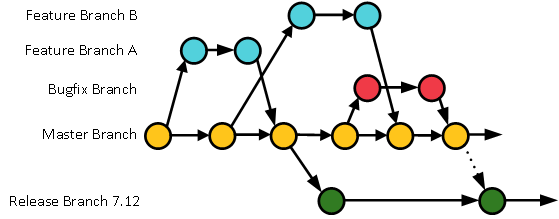
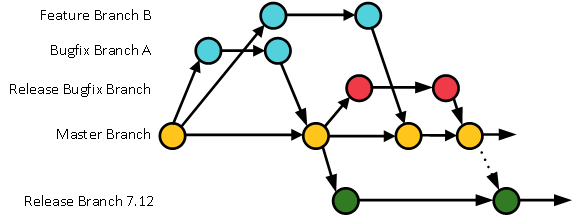
(boinc-flow) Document that bugfixes that are intended for a release branch should be branched from the commit the release branch forked from.

diff --git a/Development_Documents/BOINC_Flow.md b/Development_Documents/BOINC_Flow.md
@@ -4,22 +4,17 @@ There are many successful approaches to branching with git.  The BOINC community
 ## Master Branch
 The master branch is the primary branch in the project.  Committers will never commit to the master branch directly.  Any code merged into master is expected to go through peer review, be unit tested and have had existing automation tests run successfully against the new code before it is merged.  As a result, the master branch is expected to be reliable and is what developers should usually branch from when creating other branches.  
 
-## Feature Branches
-Developers create feature branches when they want to modify the code base.  If they are a committer, then they can use the [shared repository model](https://gist.github.com/seshness/3943237) and create the feature branch within the BOINC project directly.  If they are not a committer then they should follow the [fork and pull approach](https://gist.github.com/Chaser324/ce0505fbed06b947d962) to create a branch and submit a pull request.
+## Feature and Bugfix Branches
+Developers create feature or bugfix branches when they want to modify the code base.  If they are a committer, then they can use the [shared repository model](https://gist.github.com/seshness/3943237) and create the branch within the BOINC project directly.  If they are not a committer then they should follow the [fork and pull approach](https://gist.github.com/Chaser324/ce0505fbed06b947d962) to create a branch and submit a pull request.
 
-Features branches are merged into master via a pull request.  Developers should understand what is expected before submitting a pull request by reviewing the [Development Workflow](Development_Workflow.md) document.  
+Features and bugfix branches are merged into master via a pull request.  Developers should understand what is expected before submitting a pull request by reviewing the [Development Workflow](Development_Workflow.md) document.  
 
-Once a feature branch has been merged into master it should be deleted.
+Once a feature or bugfix branch has been merged into master it should be deleted.
 
-<p align="center">
-<img src="images/FeatureBranch.png" alt="Diagram of a Feature Branch"/>
-</p>
-
-## Bugfix Branch
-Bugfix branches are basically the same as feature branches except that created to fix a bug rather than implement a new feature.  This difference is mostly important when we talk about release branches later on in this document.
+The majority of the code contributed to the project is developed using a feature or bugfix branch.
 
 <p align="center">
-<img src="images/BugfixBranch.png" alt="Diagram of a Bugfix Branch"/>
+<img src="images/FeatureBranch.png" alt="Diagram of Feature and Normal Bugfix Branches"/>
 </p>
 
 ## Release Branches
@@ -27,12 +22,25 @@ BOINC has two types of releases: client releases and server releases.  Each of t
 
 A release branch is created off of the master branch.  Since the release branch is considered feature frozen, new code should only be added to the branch if the release manager determines that it is necessary.  
 
-Any code that is added to a release branch after it is created should be a cherry-pick of a merge commit that is present on the master branch.  The merge commit would be the result of a merging a bugfix or feature branch that was created and merged as normal.
+Any code that is added to a release branch after it is created should be a cherry-pick of a merge commit that is present on the master branch.  The merge commit would be the result of a merging a bugfix or feature branch.  See below for the preferred way to create a bugfix branch that is intended for inclusion in a release.
 
 Release branches are never deleted.
 
 <p align="center">
 <img src="images/ReleaseBranch.png" alt="Diagram of a Release Branch"/>
+</p>
+
+## Bugfix Branch intended for a Release
+If a developer is working on a fix for a bug that while a release was being tested and they expect the fix to be included in the release branch then special steps should be taken to minimize the chance of including unrelated code in their fix.  This can be done by creating the bugfix branch from the same commit where the release branch was created.  In order to do this, you need to identify the commit that served as a base for the release branch and then create the bugfix branch from that commit.  
+
+For example, if you were creating a bugfix branch for 7.12 client release you would do the following:
+```
+git merge-base master client_release/7/7.12
+git branch knr_fix_issue_1234 <commit sha from previous command>
+```
+
+<p align="center">
+<img src="images/BugfixBranch.png" alt="Diagram of a Bugfix Branch intended for a Release"/>
 </p>
 
 ## All Together
